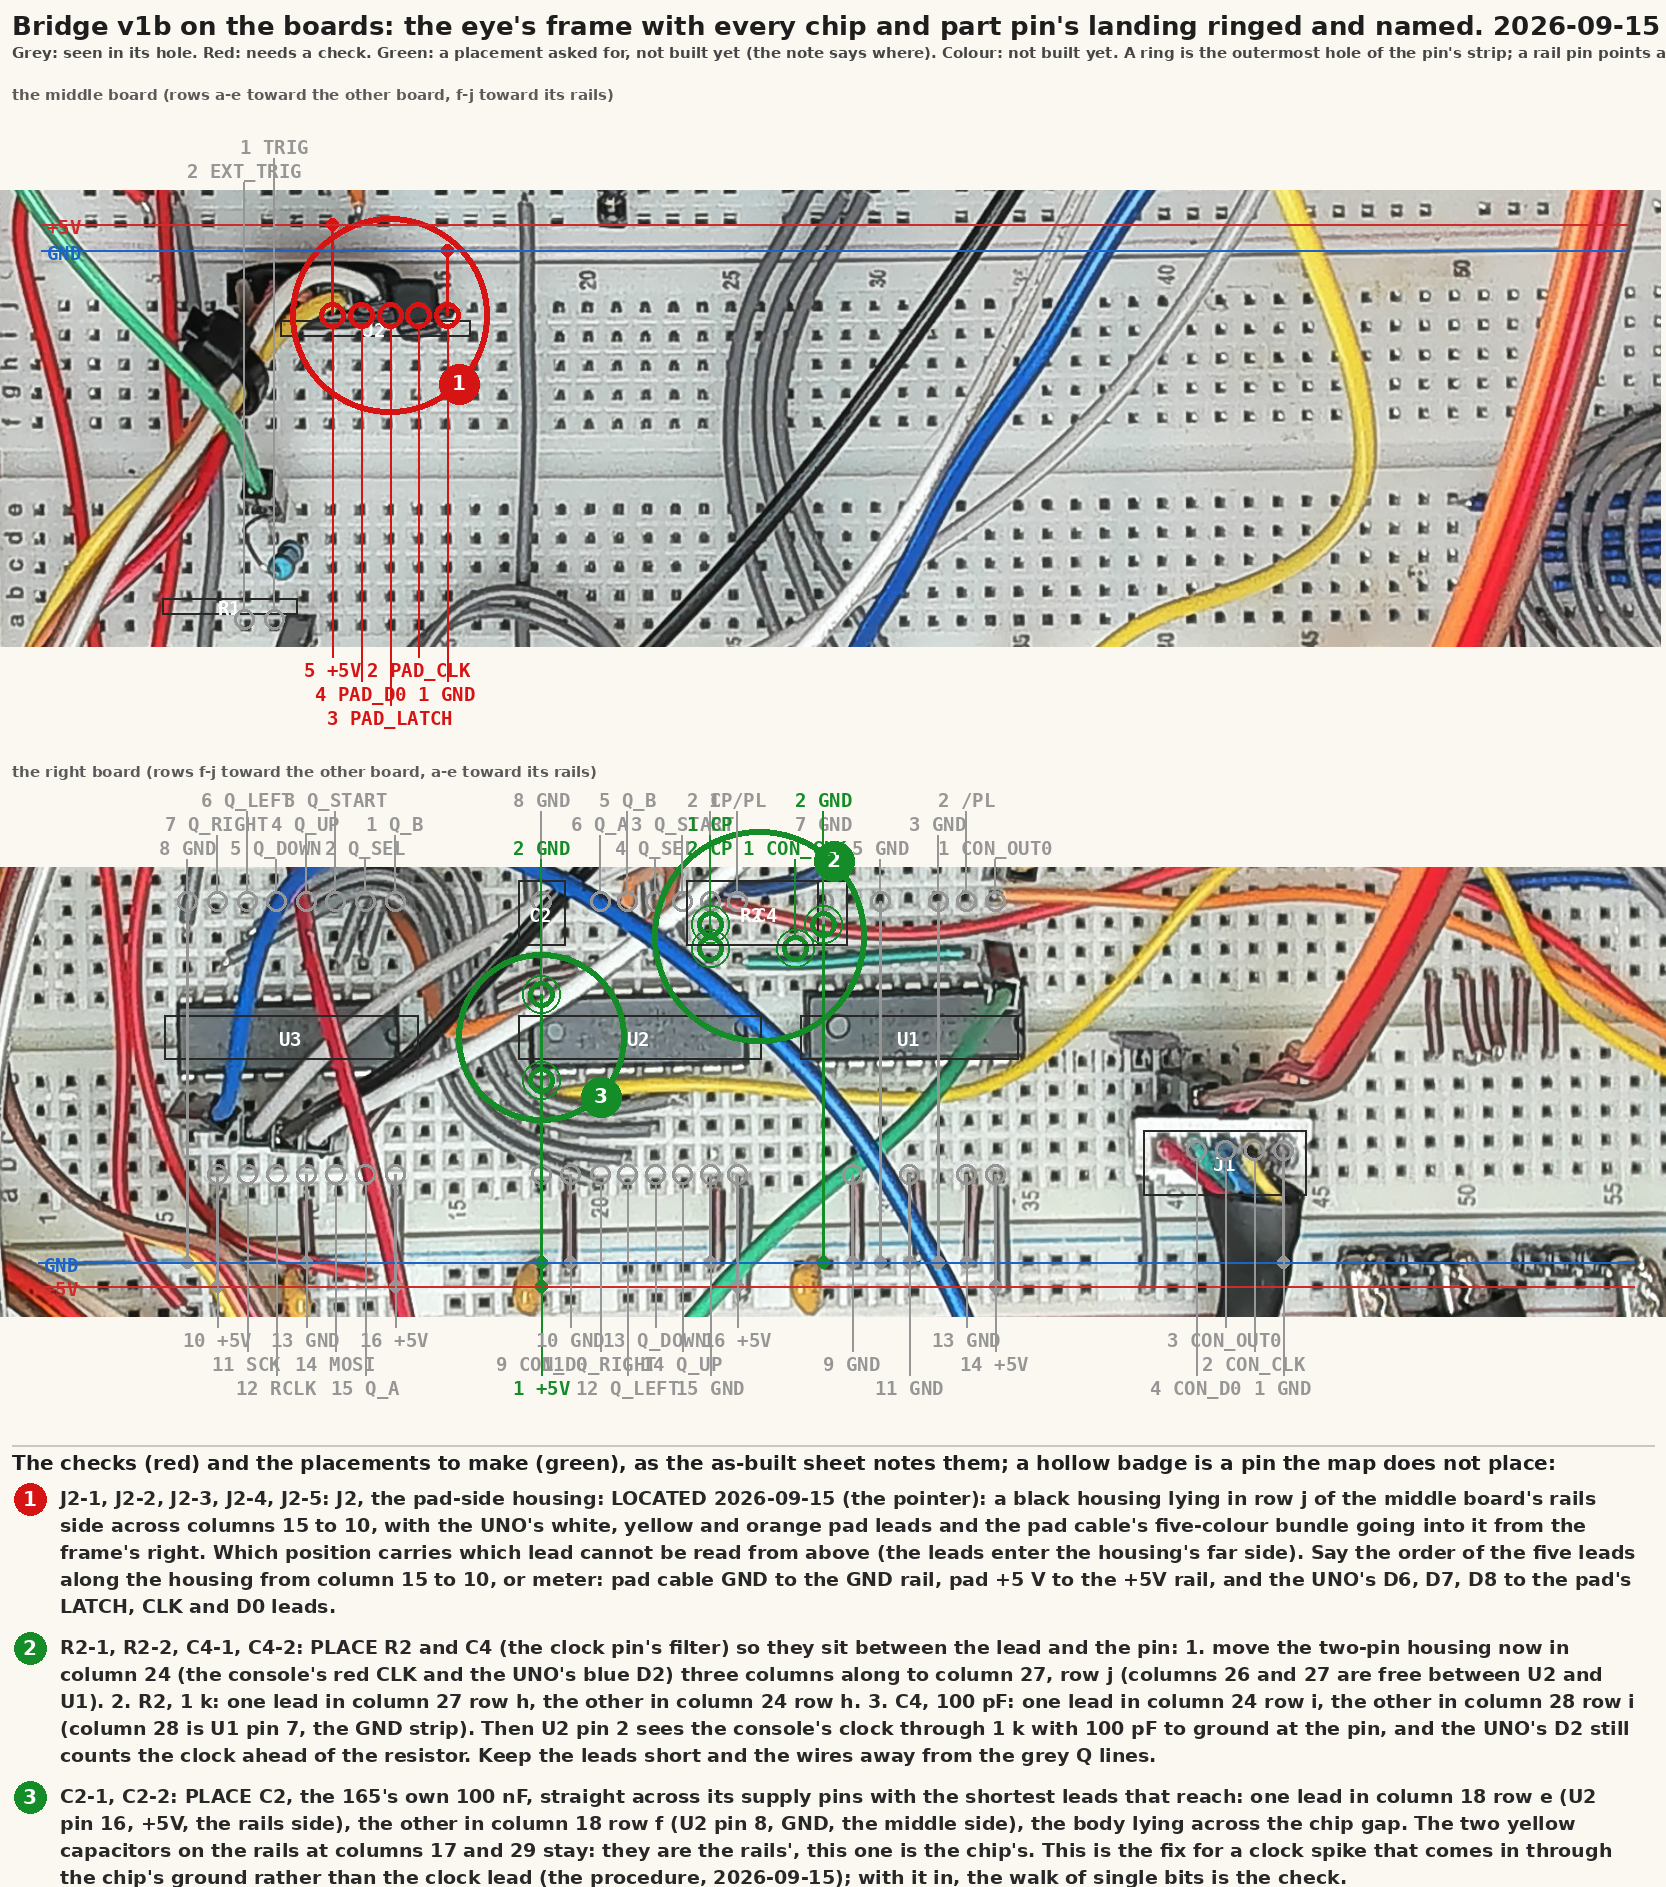
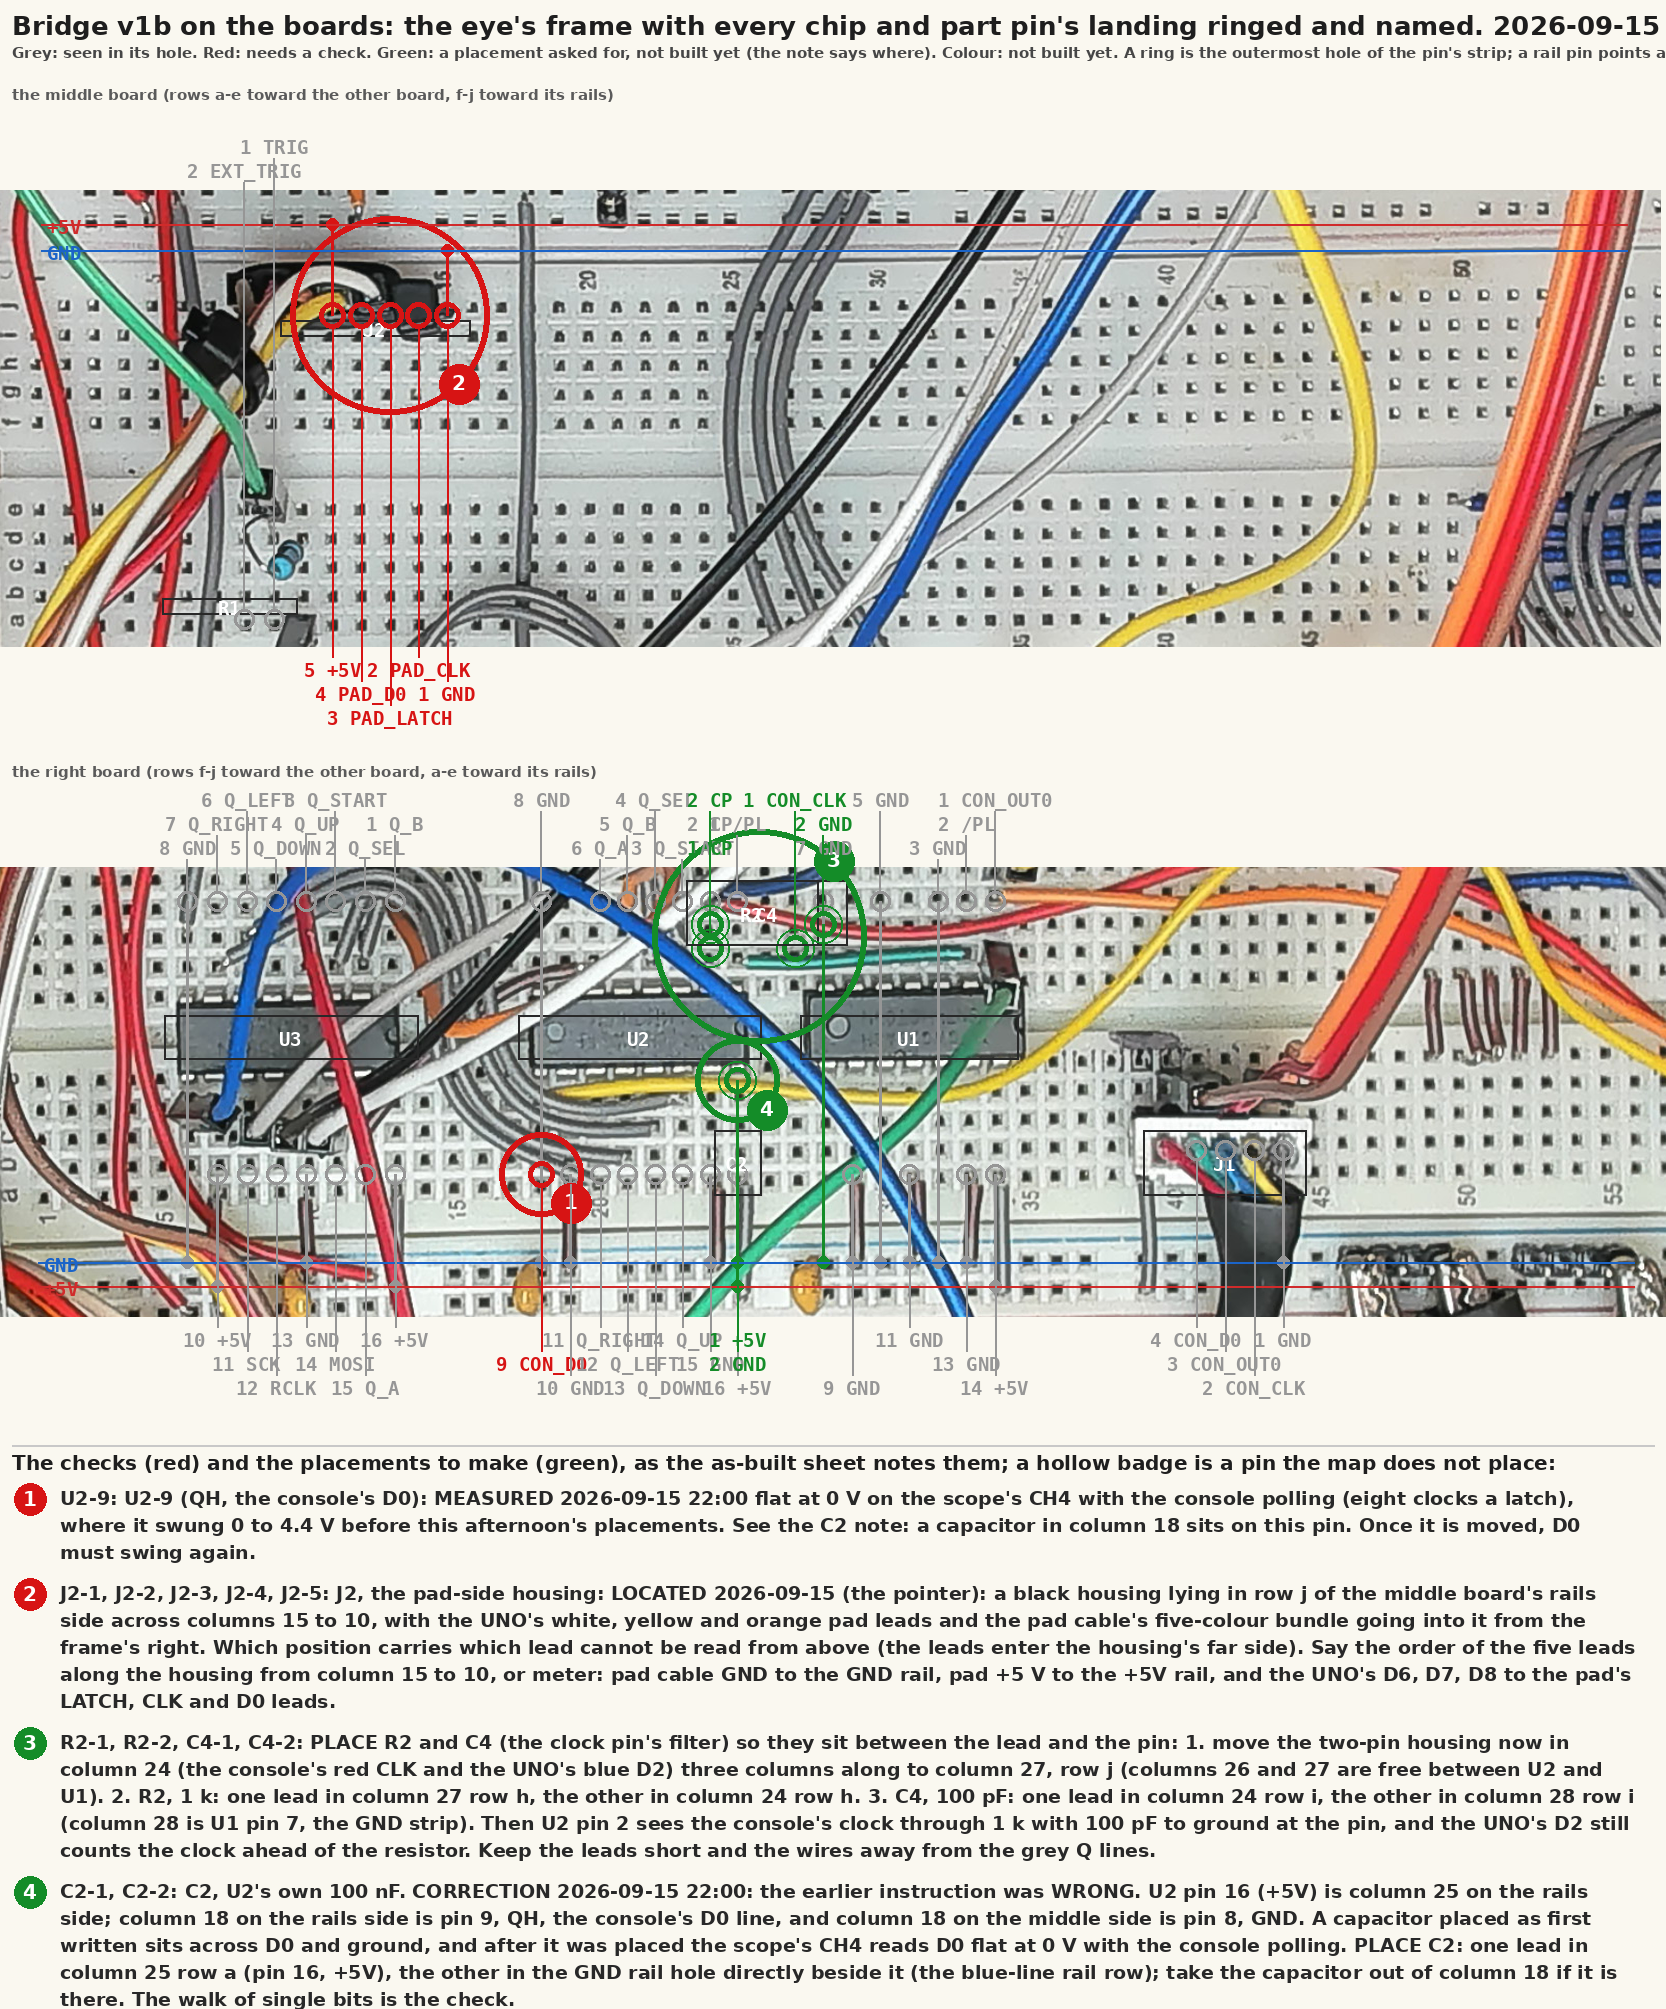
C2's placement corrected: pin 16 is column 25, not 18; D0 reads flat with a capacitor on pin 9
Claude-Session: https://claude.ai/code/session_01BdJ3NUxHSKQzEFUn9ViLv2

diff --git a/docs/procedures/2026-09-13-breadboard-qa.md b/docs/procedures/2026-09-13-breadboard-qa.md
@@ -540,3 +540,17 @@ net: step 6.1 run again, TRIG 20 stopped the scope on CH1, and the
 pulse measures 5.4 V high, 874 us wide (`docs/lab/16-trigger-on-ch1.png`),
 the firmware's millisecond less the loop it was raised in. R1 is done
 on the sheet.
+
+## A wrong instruction, 2026-09-15 22:00: C2 drawn on the D0 pin
+
+The placement note for C2 said "column 18 row e (U2 pin 16)". Column
+18 on the rails side is pin 9, QH, the console's D0; pin 16 is column
+25. The map's own pin_hole says so and the note was typed against it,
+not derived from it. After the user placed the parts as drawn, the
+scope's CH4 read D0 flat at 0 V with the console polling (the bridge
+still counting eight clocks a latch), and the walk could not run: no
+byte produced a falling edge. The note and the map are corrected (C2
+from column 25 row a to the GND rail hole beside it) and the
+photograph redrawn; the lesson for the tool is that a placement note
+should be generated from the map's pin positions, not written beside
+them.
